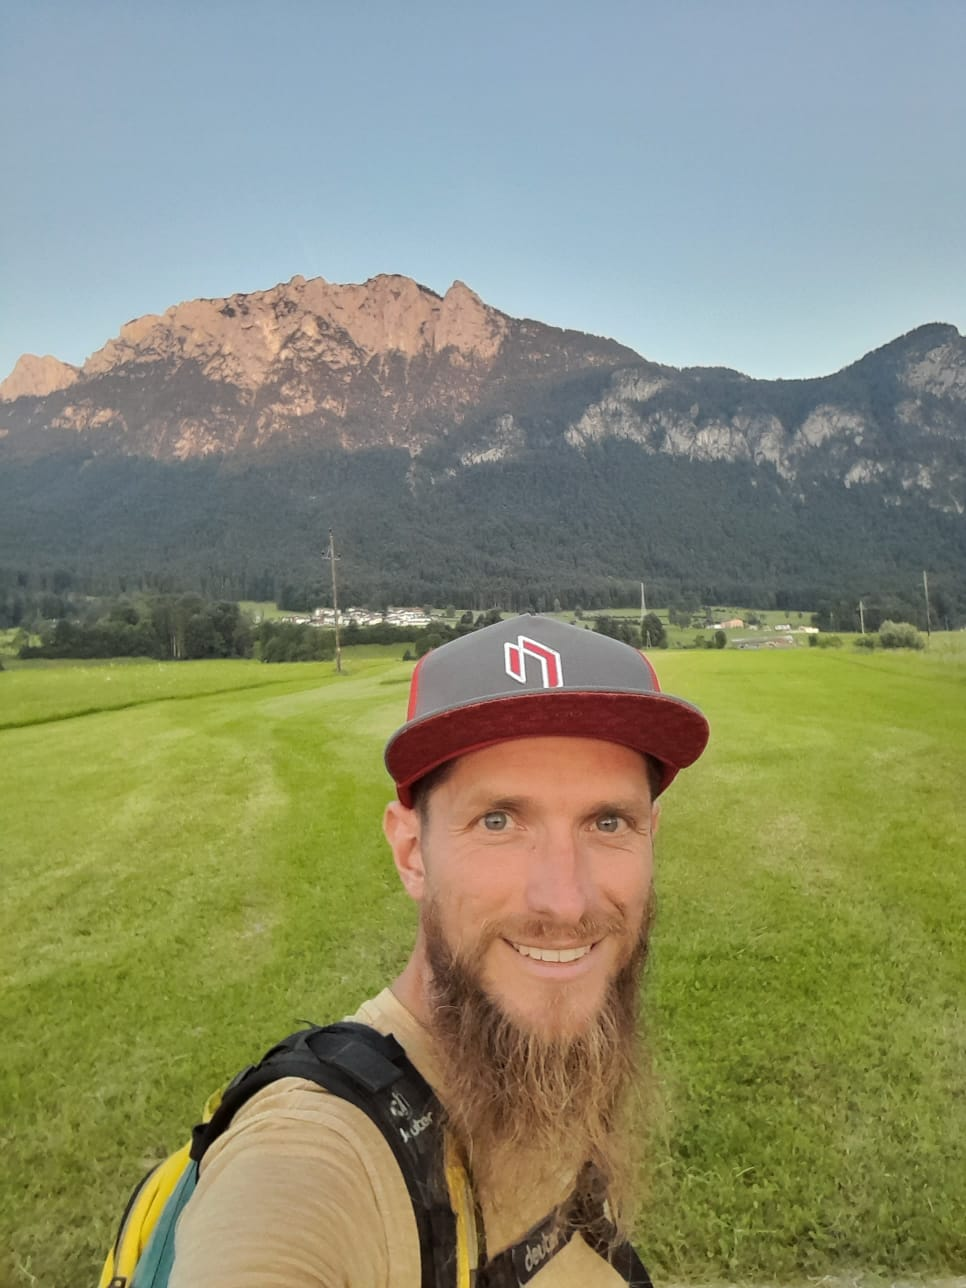
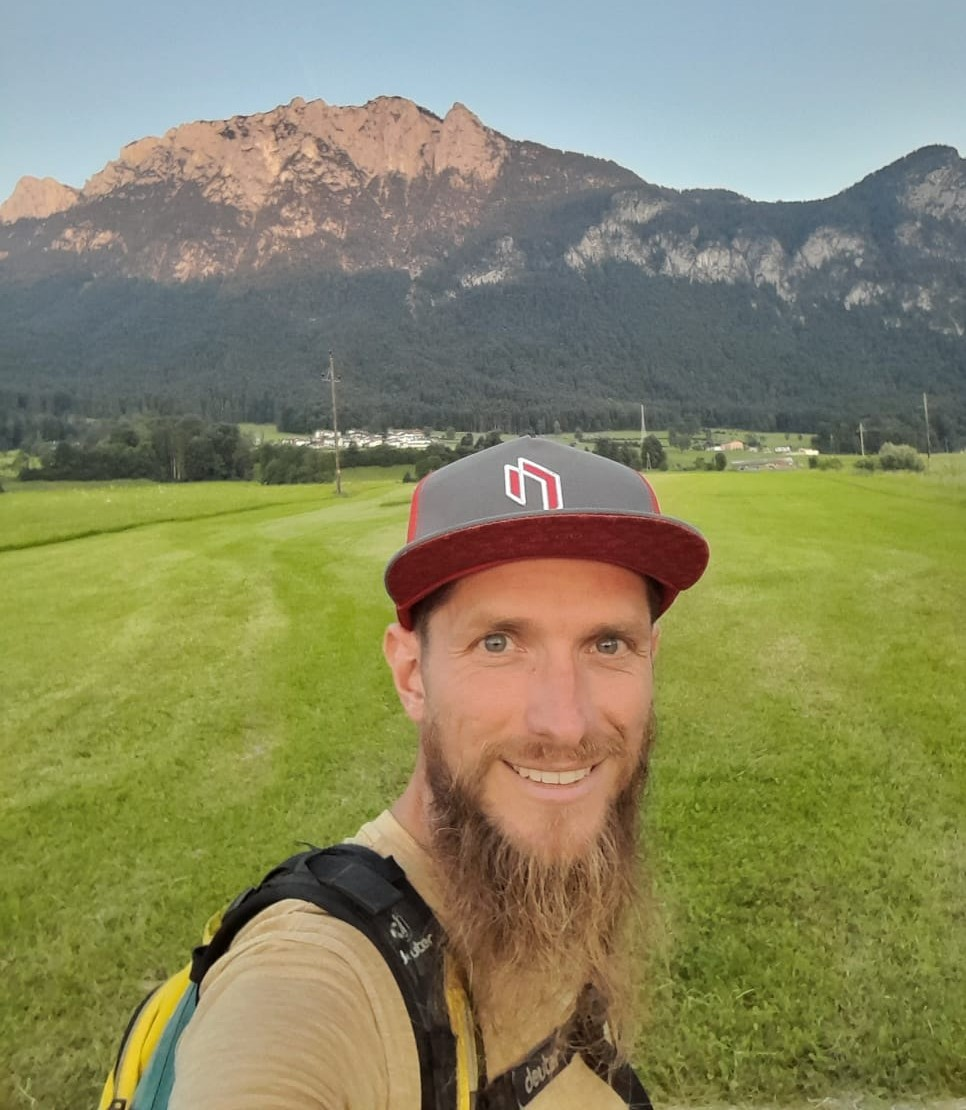
Update Contact Seite

diff --git a/_pages/contact.md b/_pages/contact.md
@@ -8,18 +8,16 @@ header:
     image: /assets/images/header/contact.png
 ---
 
-<h1>Kontaktieren Sie uns</h1>
+<h1>Schreibe uns gerne eine Nachricht</h1>
 
 <form id="contactForm">
-  <label for="name">Deine Name</label>
+  <label for="name">Dein Name</label>
   <input type="text" id="name" required>
 
-<label for="email">  <label for="name">Deine Name</label>
- Email</label>
+<label for="email">Deine Emailaddresse</label>
 <input type="email" id="email" required>
 
-<label for="message">  <label for="name">Deine Name</label>
- Nachricht</label>
+<label for="message">Deine Nachricht</label>
 <textarea id="message" required></textarea>
 
 </form>